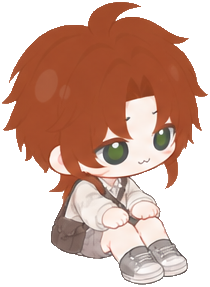
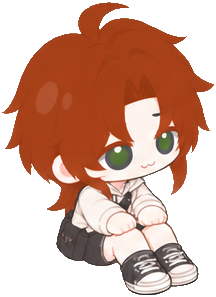
update: replace Etincelle lounge poses

Changed region(s): [[0.0, 0.0, 1.0, 1.0], [0.1429, 0.223, 0.3429, 0.3345], [0.8, 0.223, 0.8571, 0.2787]]

diff --git a/apps/web/public/lounge/etin-catalog.js b/apps/web/public/lounge/etin-catalog.js
@@ -1,1 +1,1 @@
-export const poses=[{"id":"01-sofa","label":"1 中央沙发","file":"01-sofa.png","width":216,"height":287,"sourceCrop":{"left":9,"top":78,"width":212,"height":283},"src":"./poses-etin/01-sofa.png"},{"id":"02-armchair","label":"2 左单人沙发","file":"02-armchair.png","width":210,"height":287,"sourceCrop":{"left":231,"top":80,"width":206,"height":283},"src":"./poses-etin/02-armchair.png"},{"id":"03-reading","label":"3 右沙发阅读","file":"03-reading.png","width":226,"height":288,"sourceCrop":{"left":462,"top":79,"width":222,"height":284},"src":"./poses-etin/03-reading.png"},{"id":"04-chair","label":"4 阅读区椅子","file":"04-chair.png","width":217,"height":286,"sourceCrop":{"left":695,"top":82,"width":213,"height":282},"src":"./poses-etin/04-chair.png"},{"id":"05-window-seat","label":"5 飘窗","file":"05-window-seat.png","width":219,"height":281,"sourceCrop":{"left":918,"top":87,"width":215,"height":277},"src":"./poses-etin/05-window-seat.png"},{"id":"06-bench-sit","label":"6 长凳坐姿","file":"06-bench-sit.png","width":189,"height":238,"sourceCrop":{"left":1136,"top":116,"width":185,"height":234},"src":"./poses-etin/06-bench-sit.png"},{"id":"07-round-front-left","label":"7 圆桌左前","file":"07-round-front-left.png","width":191,"height":260,"sourceCrop":{"left":10,"top":400,"width":187,"height":256},"src":"./poses-etin/07-round-front-left.png"},{"id":"07-round-front-right","label":"7 圆桌右前","file":"07-round-front-right.png","width":184,"height":247,"sourceCrop":{"left":202,"top":418,"width":180,"height":243},"src":"./poses-etin/07-round-front-right.png"},{"id":"07-round-back-left","label":"7 圆桌左后","file":"07-round-back-left.png","width":181,"height":242,"sourceCrop":{"left":387,"top":417,"width":177,"height":238},"src":"./poses-etin/07-round-back-left.png"},{"id":"07-round-back-right","label":"7 圆桌右后","file":"07-round-back-right.png","width":186,"height":241,"sourceCrop":{"left":573,"top":417,"width":182,"height":237},"src":"./poses-etin/07-round-back-right.png"},{"id":"08-square-front-left","label":"8 方桌左前","file":"08-square-front-left.png","width":195,"height":264,"sourceCrop":{"left":765,"top":401,"width":191,"height":260},"src":"./poses-etin/08-square-front-left.png"},{"id":"08-square-front-right","label":"8 方桌右前","file":"08-square-front-right.png","width":188,"height":258,"sourceCrop":{"left":962,"top":407,"width":184,"height":254},"src":"./poses-etin/08-square-front-right.png"},{"id":"08-square-back-left","label":"8 方桌左后","file":"08-square-back-left.png","width":184,"height":239,"sourceCrop":{"left":1148,"top":418,"width":180,"height":235},"src":"./poses-etin/08-square-back-left.png"},{"id":"08-square-back-right","label":"8 方桌右后","file":"08-square-back-right.png","width":190,"height":247,"sourceCrop":{"left":1343,"top":412,"width":186,"height":243},"src":"./poses-etin/08-square-back-right.png"},{"id":"09-pet","label":"9 和猫狗玩","file":"09-pet.png","width":251,"height":278,"sourceCrop":{"left":31,"top":720,"width":247,"height":274},"src":"./poses-etin/09-pet.png"}];
+export const poses=[{"id":"01-sofa","label":"1 中央沙发","file":"01-sofa.png","width":211,"height":293,"sourceCrop":{"left":6,"top":75,"width":207,"height":289},"src":"./poses-etin/01-sofa.png"},{"id":"02-armchair","label":"2 左单人沙发","file":"02-armchair.png","width":216,"height":297,"sourceCrop":{"left":225,"top":72,"width":212,"height":293},"src":"./poses-etin/02-armchair.png"},{"id":"03-reading","label":"3 右沙发阅读","file":"03-reading.png","width":219,"height":295,"sourceCrop":{"left":456,"top":75,"width":215,"height":291},"src":"./poses-etin/03-reading.png"},{"id":"04-chair","label":"4 阅读区椅子","file":"04-chair.png","width":218,"height":296,"sourceCrop":{"left":676,"top":75,"width":214,"height":292},"src":"./poses-etin/04-chair.png"},{"id":"05-window-seat","label":"5 飘窗","file":"05-window-seat.png","width":222,"height":294,"sourceCrop":{"left":892,"top":77,"width":218,"height":290},"src":"./poses-etin/05-window-seat.png"},{"id":"06-bench-sit","label":"6 长凳坐姿","file":"06-bench-sit.png","width":193,"height":259,"sourceCrop":{"left":1124,"top":98,"width":189,"height":255},"src":"./poses-etin/06-bench-sit.png"},{"id":"07-round-front-left","label":"7 圆桌左前","file":"07-round-front-left.png","width":187,"height":262,"sourceCrop":{"left":15,"top":399,"width":183,"height":258},"src":"./poses-etin/07-round-front-left.png"},{"id":"07-round-front-right","label":"7 圆桌右前","file":"07-round-front-right.png","width":191,"height":255,"sourceCrop":{"left":209,"top":411,"width":187,"height":251},"src":"./poses-etin/07-round-front-right.png"},{"id":"07-round-back-left","label":"7 圆桌左后","file":"07-round-back-left.png","width":180,"height":257,"sourceCrop":{"left":404,"top":402,"width":176,"height":253},"src":"./poses-etin/07-round-back-left.png"},{"id":"07-round-back-right","label":"7 圆桌右后","file":"07-round-back-right.png","width":176,"height":251,"sourceCrop":{"left":591,"top":402,"width":172,"height":247},"src":"./poses-etin/07-round-back-right.png"},{"id":"08-square-front-left","label":"8 方桌左前","file":"08-square-front-left.png","width":187,"height":264,"sourceCrop":{"left":772,"top":398,"width":183,"height":260},"src":"./poses-etin/08-square-front-left.png"},{"id":"08-square-front-right","label":"8 方桌右前","file":"08-square-front-right.png","width":192,"height":260,"sourceCrop":{"left":964,"top":405,"width":188,"height":256},"src":"./poses-etin/08-square-front-right.png"},{"id":"08-square-back-left","label":"8 方桌左后","file":"08-square-back-left.png","width":184,"height":251,"sourceCrop":{"left":1156,"top":410,"width":180,"height":247},"src":"./poses-etin/08-square-back-left.png"},{"id":"08-square-back-right","label":"8 方桌右后","file":"08-square-back-right.png","width":187,"height":253,"sourceCrop":{"left":1348,"top":408,"width":183,"height":249},"src":"./poses-etin/08-square-back-right.png"},{"id":"09-pet","label":"9 和猫狗玩","file":"09-pet.png","width":278,"height":294,"sourceCrop":{"left":26,"top":701,"width":274,"height":290},"src":"./poses-etin/09-pet.png"}];
